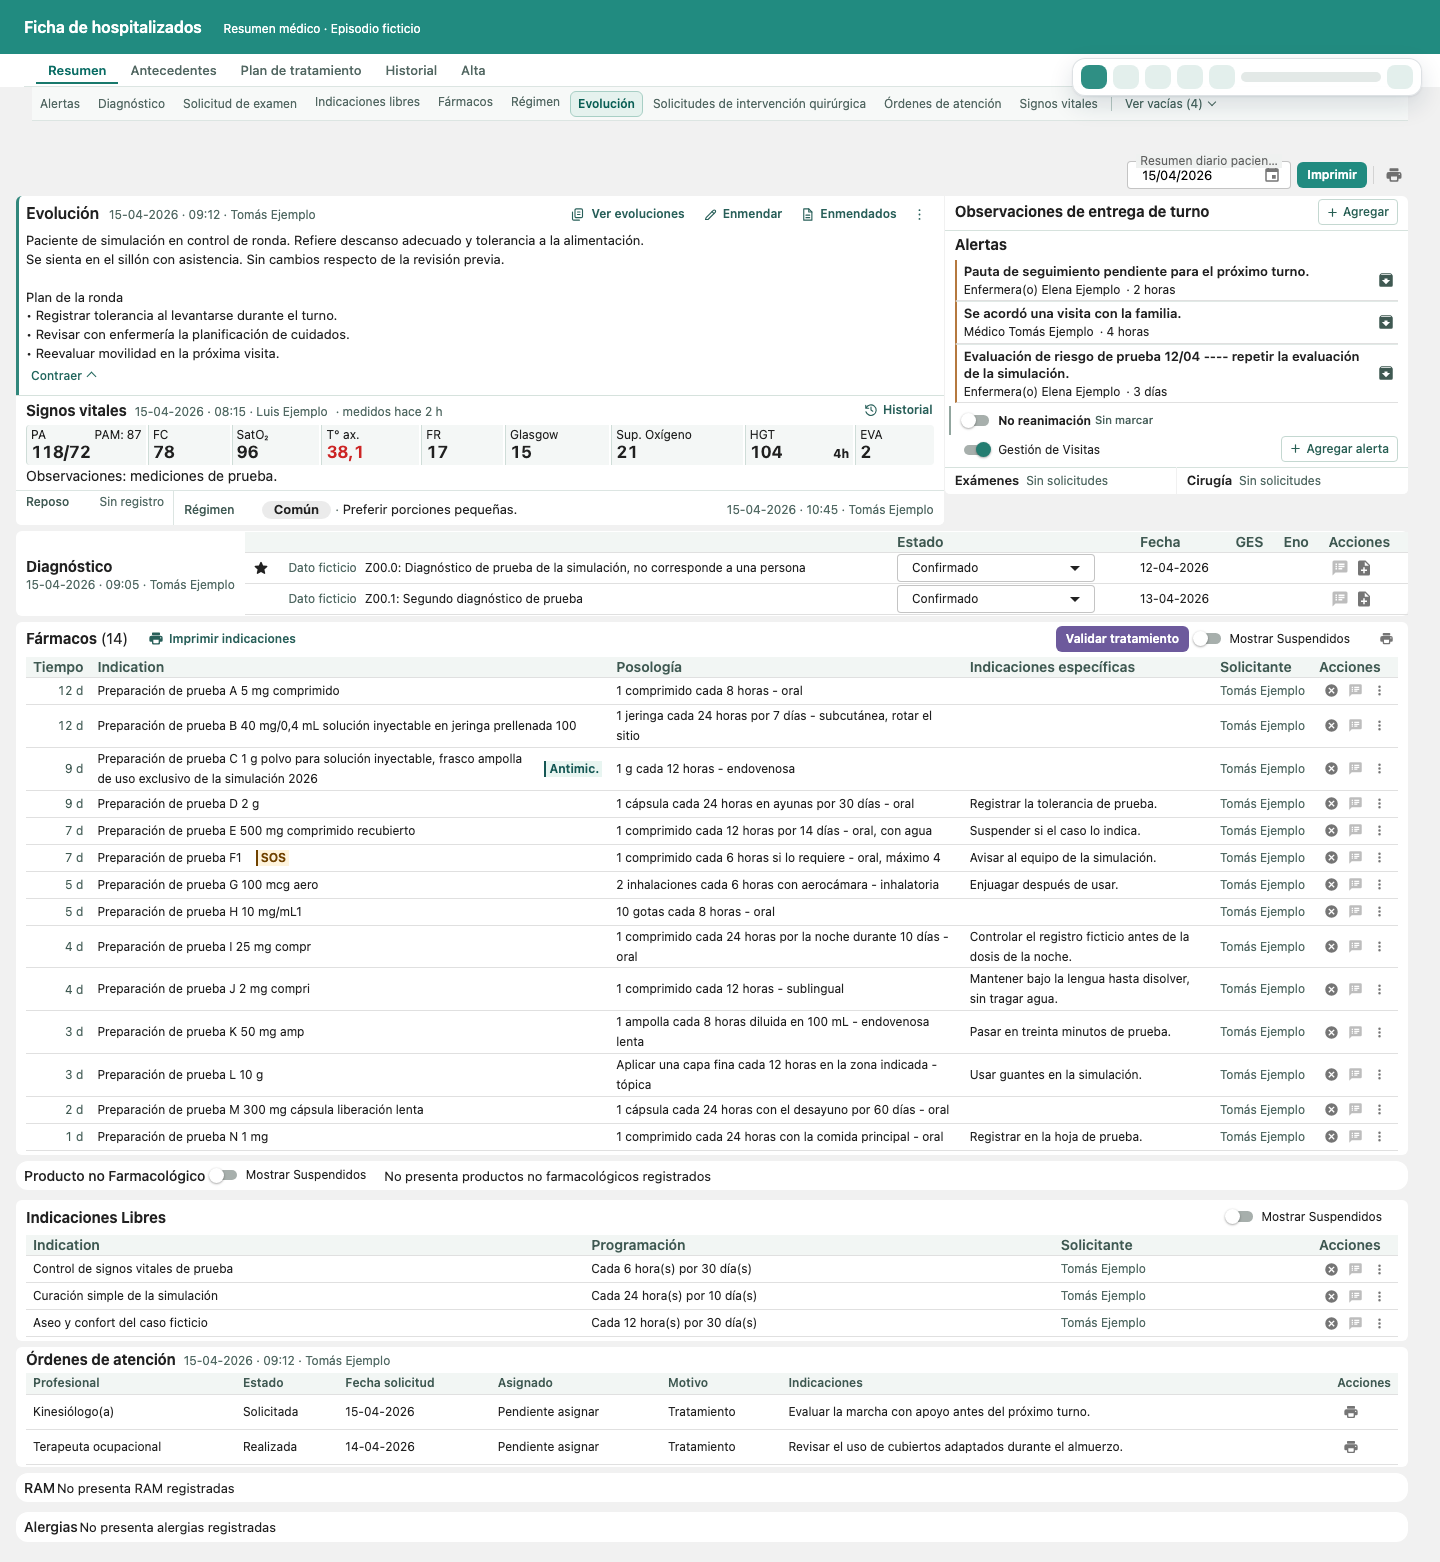
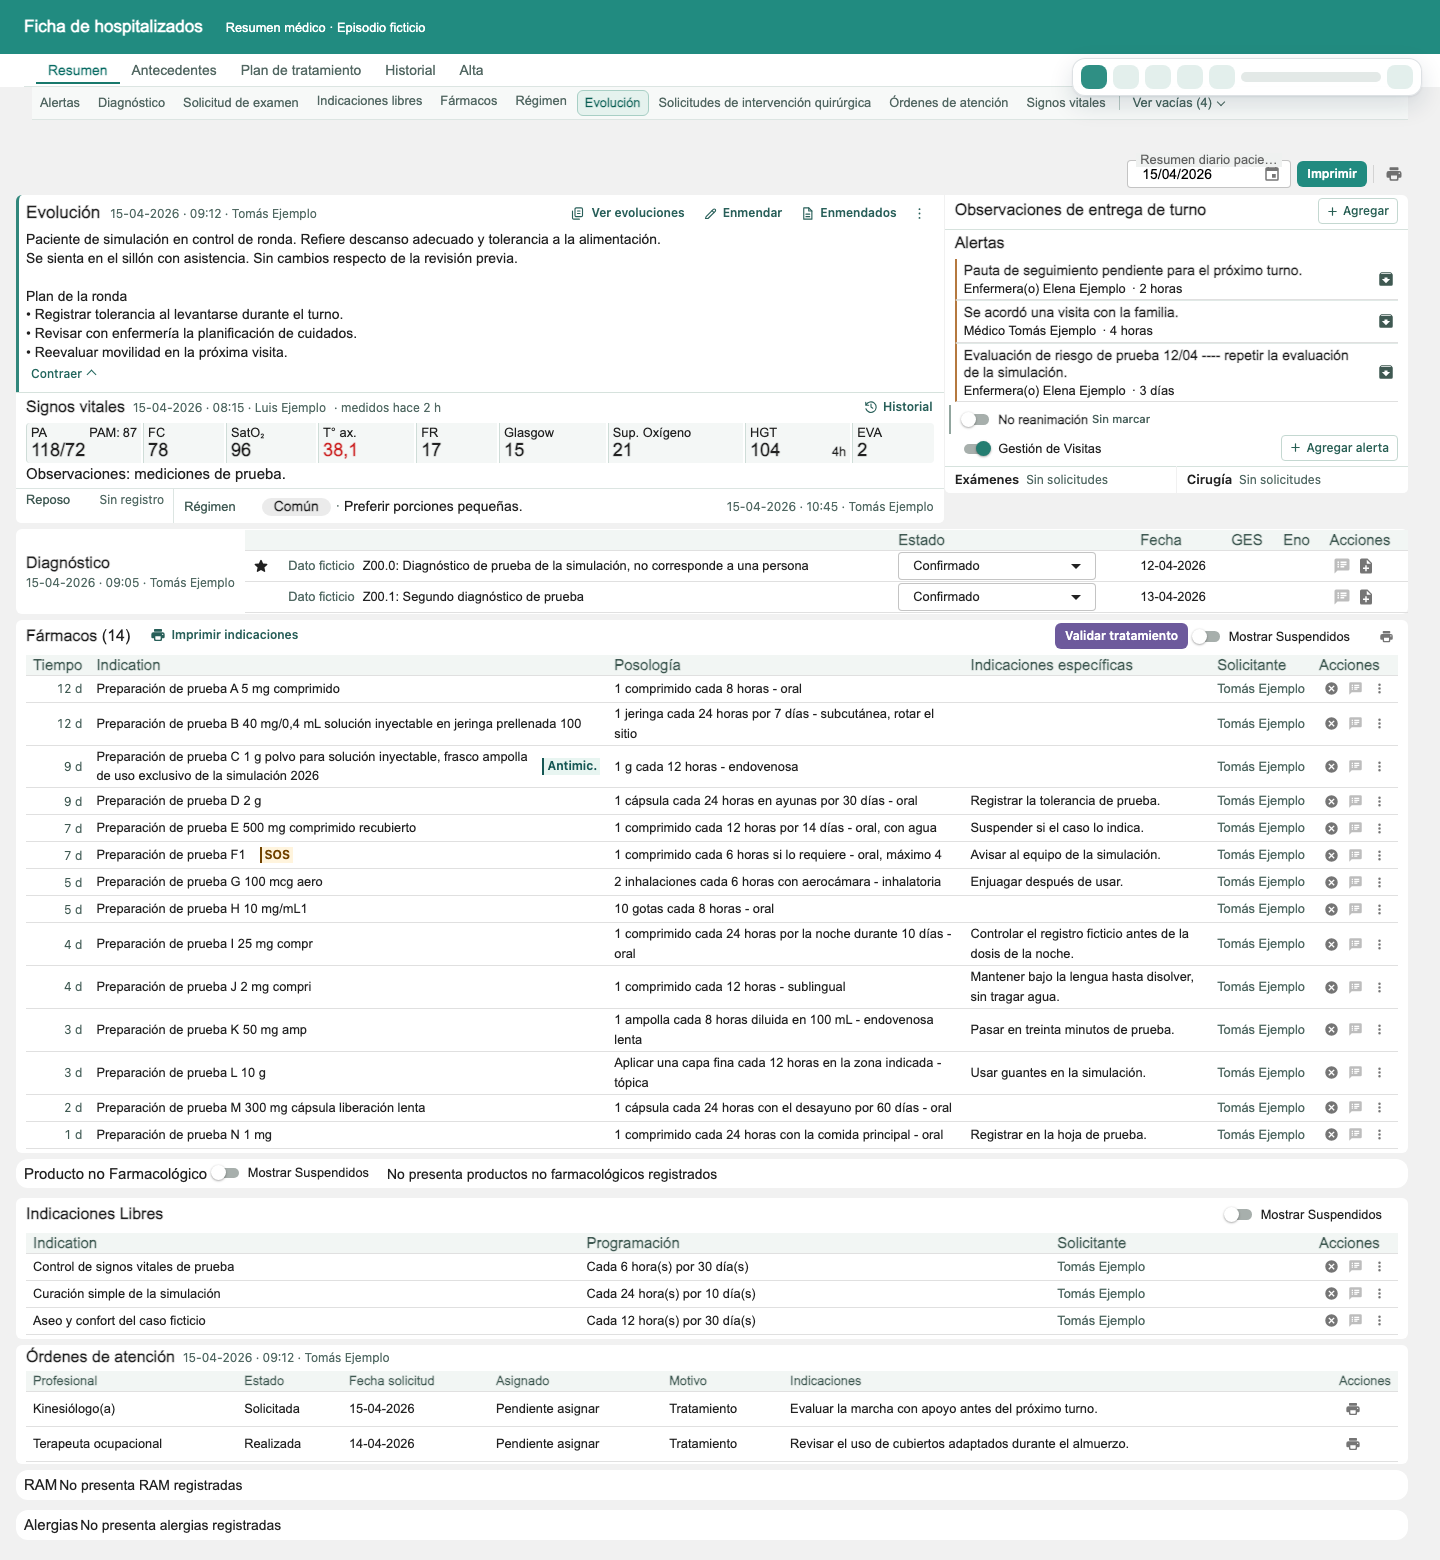
test: draw the fictional summary with Eloísa's own Inter fallback
CI failed where this machine passed: the fixture asked for Inter, which is
installed on neither, and each platform drew its own system fallback. The
Linux one is much wider and broke the drug rows into more lines. The
fixture now declares the fallback Eloísa itself declares through next/font:
Arial scaled to Inter's width, with Liberation Sans or Arimo as Arial on
Linux. Both platforms draw the same widths, close to the page.

diff --git a/docs/visual/resumen-escritorio/README.md b/docs/visual/resumen-escritorio/README.md
@@ -15,8 +15,9 @@ Un repaso con reglas mínimas de buena composición, medidas en la página. Ante
 | Margen izquierdo y derecho de las tarjetas | 16 y 32 → 35 y 35 px | 16 y 32 → 42 y 42 px |
 | Separación entre bloques bajo la ronda | 6 o 10 → 8 px | 6 o 10 → 8 px |
 | Tipografías / pesos / tamaños de letra | 2 / 5 / 6 → 1 / 2 / 4 | 2 / 5 / 6 → 1 / 2 / 4 |
-| Inicio de Fármacos | 649 → 619 px | 622 → 623 px |
+| Inicio de Fármacos | 647 → 616 px | 620 → 621 px |
 | Indicaciones de Fármacos completas en la primera pantalla, de 14 | 2 → 3 | 7 → 7 |
+| Indicaciones de Fármacos en una sola línea, de 14 | 5 → 7 | 8 → 8 |
 
 En una ventana de 1990 px el contenido ocupaba 1926 px de borde a borde; ahora se detiene en 1600 px, centrado, con 195 px a cada lado.
 
@@ -35,7 +36,7 @@ Cada una de estas mutaciones hace fallar la captura: márgenes asimétricos; sep
 
 Límites:
 
-- **Nada de esto se ha visto aplicado sobre Eloísa.** La página real tiene Inter cargada; la ficha ficticia, sin ella en este equipo, dibuja la letra de reserva en las dos partes. La comprobación de una sola tipografía mide la familia declarada.
+- **Nada de esto se ha visto aplicado sobre Eloísa.** La página real carga Inter. Donde corren las capturas no está instalada, y la ficha ficticia declara la reserva que Eloísa misma declara: Arial ajustada al ancho de Inter (Liberation Sans en Linux, con las mismas medidas). Las cifras son así iguales en macOS y en CI, y cercanas a la página. La comprobación de una sola tipografía mide la familia declarada.
 - **Historial y Plan** ya tenían márgenes simétricos. Sus fichas ficticias siguen con el fondo y el margen de 24 px anteriores a esta medida.
 - **Por debajo de 1100 px**, sin las dos columnas, Diagnóstico queda 8 px más adentro que los demás bloques, como antes. No hay comprobación de márgenes en esa franja.
 - **A 1990 px la fila de fecha diaria ya no cabe junto a la línea de secciones**, que ahora termina antes y queda bajo la barra flotante de Centro HHR: ocupa su propia línea, unos 40 px.
